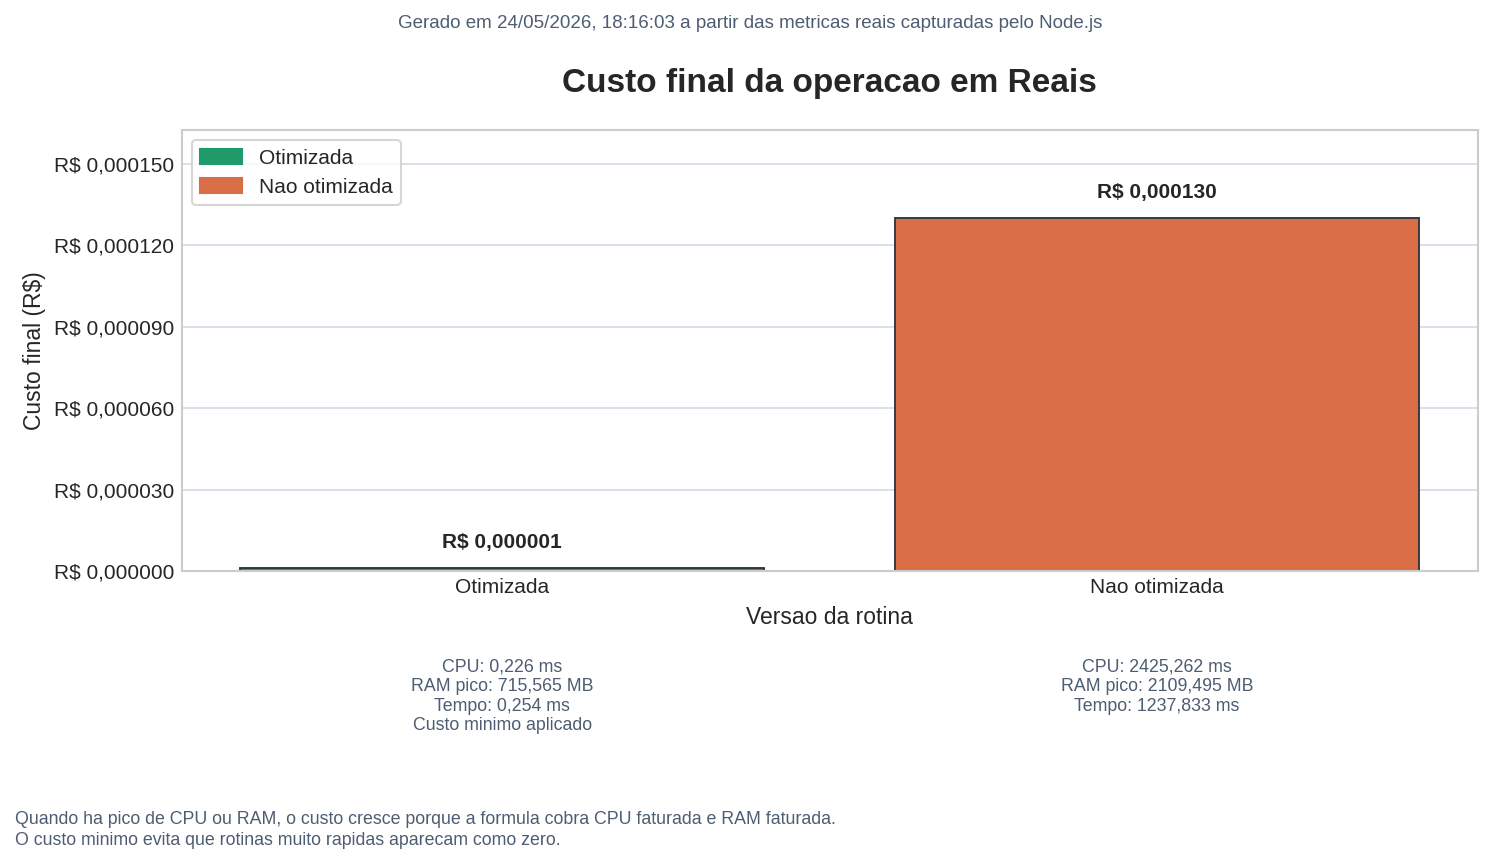
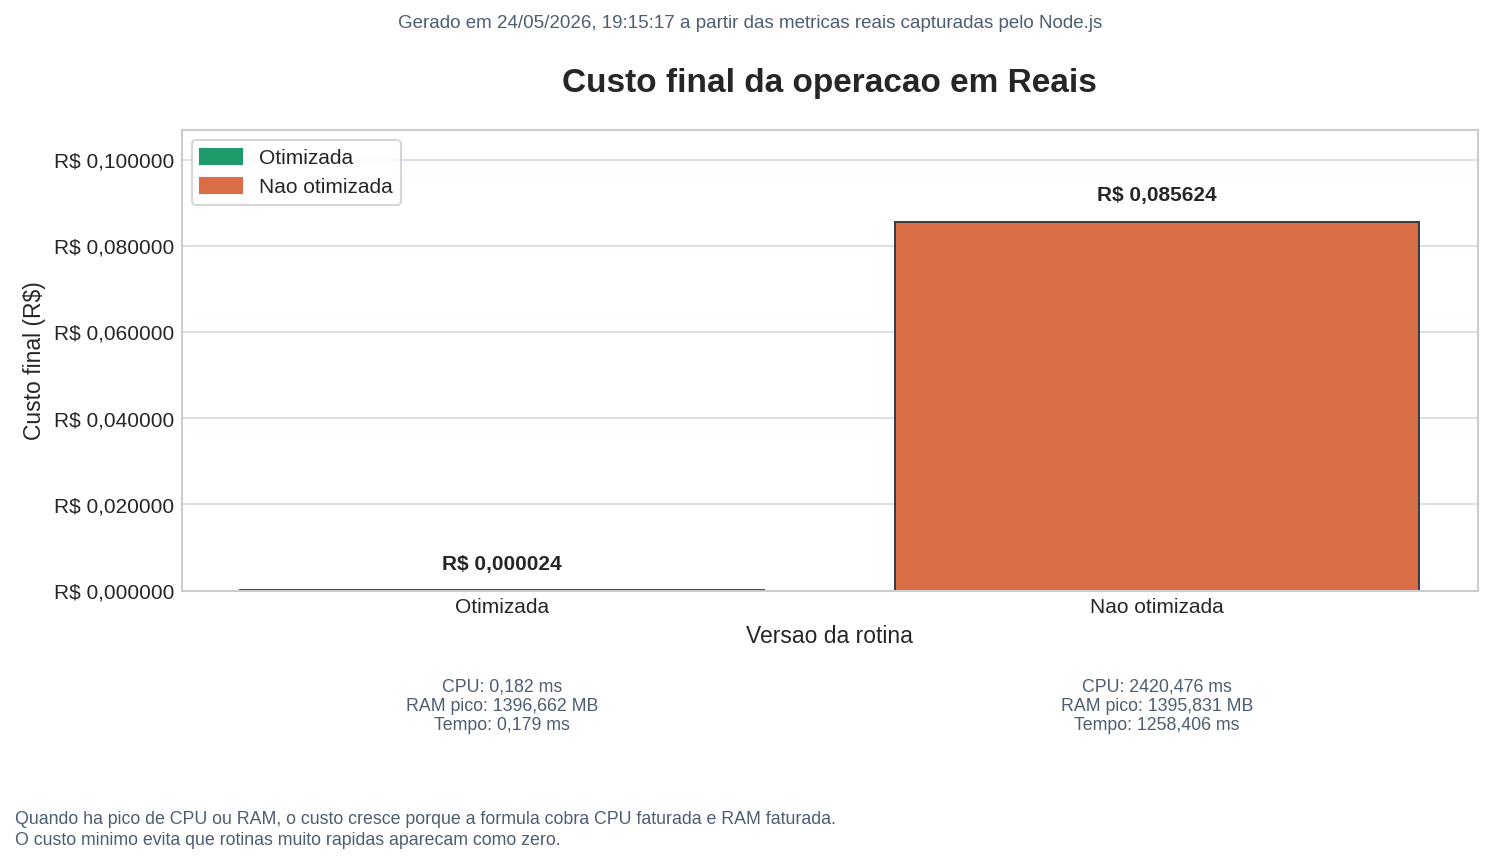
atualização

diff --git a/finops/pricing.js b/finops/pricing.js
@@ -2,20 +2,31 @@ const SIMULATED_PRICING = {
     currency: 'BRL',
     cloudProfile: {
         provider: 'Nuvem Simulada',
-        serviceModel: 'Servidor web/API do Allumni em modelo pay-as-you-go',
-        serverProfile: 'Instancia de aplicacao com 2 vCPU e 4 GB RAM'
+        serviceModel: 'Monitor de Custos Simulado baseado em CPU, memoria RAM e armazenamento',
+        serverProfile: 'Aplicacao web ALUMNI analisada pelo modulo FinOps'
     },
     rates: {
-        cpuPerVcpuSecond: 0.000047,
-        ramPerGbSecond: 0.0000064
+        ramPerGbSecond: 0.10,
+        cpuPerHour: 1.00,
+        storagePerGbHour: 0.05
     },
     billing: {
         minimumOperationCost: 0.000001,
-        rule: 'Operacoes com custo calculado abaixo do minimo recebem uma cobranca simbolica minima.'
+        rule: 'Operacoes com custo calculado abaixo do minimo recebem uma cobranca simbolica minima para nao aparecerem como zero.'
+    },
+    example: {
+        ramGb: 2,
+        ramSeconds: 10,
+        cpuHours: 2,
+        ramCost: 2,
+        cpuCost: 2,
+        totalCost: 4
     },
     assumptions: [
-        'O Allumni esta publicado em um servidor de aplicacao na nuvem.',
-        'Cada operacao consome uma fração do tempo de CPU e da memoria RAM desse servidor.',
+        'A tabela de precos e ficticia e segue o modelo solicitado no projeto.',
+        '1 GB de RAM custa R$ 0,10 por segundo.',
+        '1 hora de CPU custa R$ 1,00.',
+        '1 GB de armazenamento custa R$ 0,05 por hora.',
         'O custo da operacao e proporcional ao uso efetivo de CPU e RAM durante a execucao.',
         'Operacoes muito rapidas recebem custo minimo para evitar arredondamento para zero.'
     ]
@@ -28,10 +39,11 @@ function toCurrency(value) {
 function calculateFinOpsCost(metrics) {
     const elapsedSeconds = metrics.elapsedMs / 1000;
     const cpuSeconds = metrics.cpuTotalMs / 1000;
+    const cpuHours = cpuSeconds / 3600;
     const averageRamGb = metrics.averageMemoryMb / 1024;
     const ramGbSeconds = averageRamGb * elapsedSeconds;
 
-    const cpuCost = cpuSeconds * SIMULATED_PRICING.rates.cpuPerVcpuSecond;
+    const cpuCost = cpuHours * SIMULATED_PRICING.rates.cpuPerHour;
     const ramCost = ramGbSeconds * SIMULATED_PRICING.rates.ramPerGbSecond;
     const subtotalCost = cpuCost + ramCost;
     const minimumOperationCost = SIMULATED_PRICING.billing.minimumOperationCost;
@@ -41,6 +53,7 @@ function calculateFinOpsCost(metrics) {
     return {
         elapsedSeconds: Number(elapsedSeconds.toFixed(4)),
         cpuSeconds: Number(cpuSeconds.toFixed(4)),
+        cpuHours: Number(cpuHours.toFixed(8)),
         averageRamGb: Number(averageRamGb.toFixed(4)),
         ramGbSeconds: Number(ramGbSeconds.toFixed(6)),
         cpuCost: toCurrency(cpuCost),

diff --git a/finops.js b/finops.js
@@ -51,9 +51,11 @@ function renderPricing(config) {
     pricingBox.innerHTML = `
         <p><strong>Cenário simulado:</strong> ${config.pricing.cloudProfile.serviceModel}</p>
         <p><strong>Perfil do servidor:</strong> ${config.pricing.cloudProfile.serverProfile}</p>
-        <p><strong>Fórmula:</strong> <code>Custo = (CPU em segundos x Preço_vCPU) + (RAM média em GB x Tempo x Preço_RAM)</code></p>
-        <p><strong>Preço vCPU:</strong> ${formatMoney(config.pricing.rates.cpuPerVcpuSecond)} por vCPU-segundo.</p>
+        <p><strong>Fórmula:</strong> <code>Custo = (RAM_GB x R$ 0,10 x tempo_s) + (CPU_horas x R$ 1,00)</code></p>
         <p><strong>Preço RAM:</strong> ${formatMoney(config.pricing.rates.ramPerGbSecond)} por GB-segundo.</p>
+        <p><strong>Preço CPU:</strong> ${formatMoney(config.pricing.rates.cpuPerHour)} por hora de CPU.</p>
+        <p><strong>Preço armazenamento:</strong> ${formatMoney(config.pricing.rates.storagePerGbHour)} por GB-hora.</p>
+        <p><strong>Exemplo do enunciado:</strong> 2 GB RAM por 10s + 2h CPU = ${formatMoney(config.pricing.example.totalCost)}.</p>
         <p><strong>Custo mínimo:</strong> ${formatMoney(config.pricing.billing.minimumOperationCost)} por operação, quando o cálculo bruto ficaria abaixo disso.</p>
         <p><strong>Operação monitorada:</strong> ${config.operation.description}</p>
         <p><strong>Sistema fonte:</strong> ${config.source.system}</p>
@@ -105,7 +107,7 @@ function renderMetricCard(containerId, execution) {
     container.innerHTML = `
         <div class="finops-metric-item"><span>Tempo total</span><strong>${formatNumber(execution.metrics.elapsedMs)} ms</strong></div>
         <div class="finops-metric-item"><span>CPU total</span><strong>${formatNumber(execution.metrics.cpuTotalMs)} ms</strong></div>
-        <div class="finops-metric-item"><span>CPU faturada</span><strong>${formatNumber(execution.costs.cpuSeconds, 4)} s</strong></div>
+        <div class="finops-metric-item"><span>CPU faturada</span><strong>${formatNumber(execution.costs.cpuHours, 8)} h</strong></div>
         <div class="finops-metric-item"><span>RAM média</span><strong>${formatNumber(execution.metrics.averageMemoryMb)} MB</strong></div>
         <div class="finops-metric-item"><span>RAM faturada</span><strong>${formatNumber(execution.costs.ramGbSeconds, 6)} GB.s</strong></div>
         <div class="finops-metric-item"><span>RAM pico</span><strong>${formatNumber(execution.metrics.peakMemoryMb)} MB</strong></div>

diff --git a/server.js b/server.js
@@ -250,6 +250,7 @@ app.get('/api/finops/dados-csv', async (req, res) => {
             'memoria_media_mb',
             'memoria_pico_mb',
             'cpu_segundos_faturados',
+            'cpu_horas_faturadas',
             'ram_gb_segundos_faturados',
             'custo_cpu',
             'custo_ram',
@@ -266,6 +267,7 @@ app.get('/api/finops/dados-csv', async (req, res) => {
                 row.memoria_media_mb,
                 row.memoria_pico_mb,
                 row.cpu_total_ms / 1000,
+                (row.cpu_total_ms / 1000) / 3600,
                 (row.memoria_media_mb / 1024) * (row.tempo_execucao_ms / 1000),
                 row.custo_cpu,
                 row.custo_ram,

diff --git a/scripts/selenium-stress-example.py b/scripts/selenium-stress-example.py
@@ -1,0 +1,83 @@
+#!/usr/bin/env python3
+import os
+import time
+from concurrent.futures import ThreadPoolExecutor, as_completed
+
+from selenium import webdriver
+from selenium.webdriver.chrome.options import Options
+
+
+URL = os.getenv("SELENIUM_STRESS_URL", "http://localhost:3000")
+NUM_USERS = int(os.getenv("SELENIUM_STRESS_USERS", "10"))
+CONCURRENCY = int(os.getenv("SELENIUM_STRESS_CONCURRENCY", "2"))
+WAIT_SECONDS = float(os.getenv("SELENIUM_STRESS_WAIT_SECONDS", "2"))
+
+
+def create_driver():
+    options = Options()
+    options.add_argument("--headless=new")
+    options.add_argument("--no-sandbox")
+    options.add_argument("--disable-dev-shm-usage")
+    return webdriver.Chrome(options=options)
+
+
+def simulate_user(user_index):
+    started_at = time.perf_counter()
+    driver = create_driver()
+
+    try:
+        driver.get(URL)
+        time.sleep(WAIT_SECONDS)
+        title = driver.title
+        elapsed_ms = (time.perf_counter() - started_at) * 1000
+
+        return {
+            "usuario": user_index,
+            "sucesso": True,
+            "tempo_ms": round(elapsed_ms, 2),
+            "titulo": title,
+        }
+    except Exception as error:
+        elapsed_ms = (time.perf_counter() - started_at) * 1000
+
+        return {
+            "usuario": user_index,
+            "sucesso": False,
+            "tempo_ms": round(elapsed_ms, 2),
+            "erro": str(error),
+        }
+    finally:
+        driver.quit()
+
+
+def main():
+    print(f"URL testada: {URL}")
+    print(f"Usuarios simulados: {NUM_USERS}")
+    print(f"Concorrencia: {CONCURRENCY}")
+
+    started_at = time.perf_counter()
+    results = []
+
+    with ThreadPoolExecutor(max_workers=CONCURRENCY) as executor:
+        futures = [executor.submit(simulate_user, index + 1) for index in range(NUM_USERS)]
+
+        for future in as_completed(futures):
+            result = future.result()
+            results.append(result)
+            status = "OK" if result["sucesso"] else "ERRO"
+            print(f"Usuario {result['usuario']}: {status} - {result['tempo_ms']} ms")
+
+    total_ms = (time.perf_counter() - started_at) * 1000
+    successes = sum(1 for result in results if result["sucesso"])
+    failures = NUM_USERS - successes
+    average_ms = sum(result["tempo_ms"] for result in results) / len(results)
+
+    print("\nResumo Selenium")
+    print(f"Sucessos: {successes}")
+    print(f"Falhas: {failures}")
+    print(f"Tempo medio: {average_ms:.2f} ms")
+    print(f"Tempo total: {total_ms:.2f} ms")
+
+
+if __name__ == "__main__":
+    main()

diff --git a/README.md b/README.md
@@ -44,9 +44,27 @@ Para executar testes reais de carga no backend ALUMNI e na rota FinOps:
 
 O script sobe o ALUMNI na porta `3100`, o FinOps na porta `3101`, dispara requisições concorrentes em rotas de login, vagas, grupos, mensagens e comparação FinOps, e salva os resultados em `exports/stress-test-report.json` e `exports/stress-test-report.md`.
 
+Também há um exemplo opcional com Selenium, conforme o enunciado:
+
+`python3 scripts/selenium-stress-example.py`
+
+Ele abre navegadores em modo headless para simular usuários acessando a interface. Para um teste de carga mais preciso no backend, use `npm run stress`.
+
 ## Fórmula usada
 
-`Custo = (CPU em segundos x Preço_vCPU) + (RAM média em GB x Tempo da operação x Preço_RAM)`
+Tabela fictícia usada pelo Monitor de Custos Simulado:
+
+- 1 GB de RAM: R$ 0,10 por segundo
+- 1 hora de CPU: R$ 1,00
+- 1 GB de armazenamento: R$ 0,05 por hora
+
+`Custo_RAM = Quantidade_RAM_GB x 0,10 x Tempo_segundos`
+
+`Custo_CPU = Tempo_CPU_horas x 1,00`
+
+`Custo_Total = Custo_RAM + Custo_CPU`
+
+Exemplo do enunciado: 2 GB de RAM por 10 segundos e 2 horas de CPU resultam em `R$ 2,00 + R$ 2,00 = R$ 4,00`.
 
 ## Premissa de FinOps
 